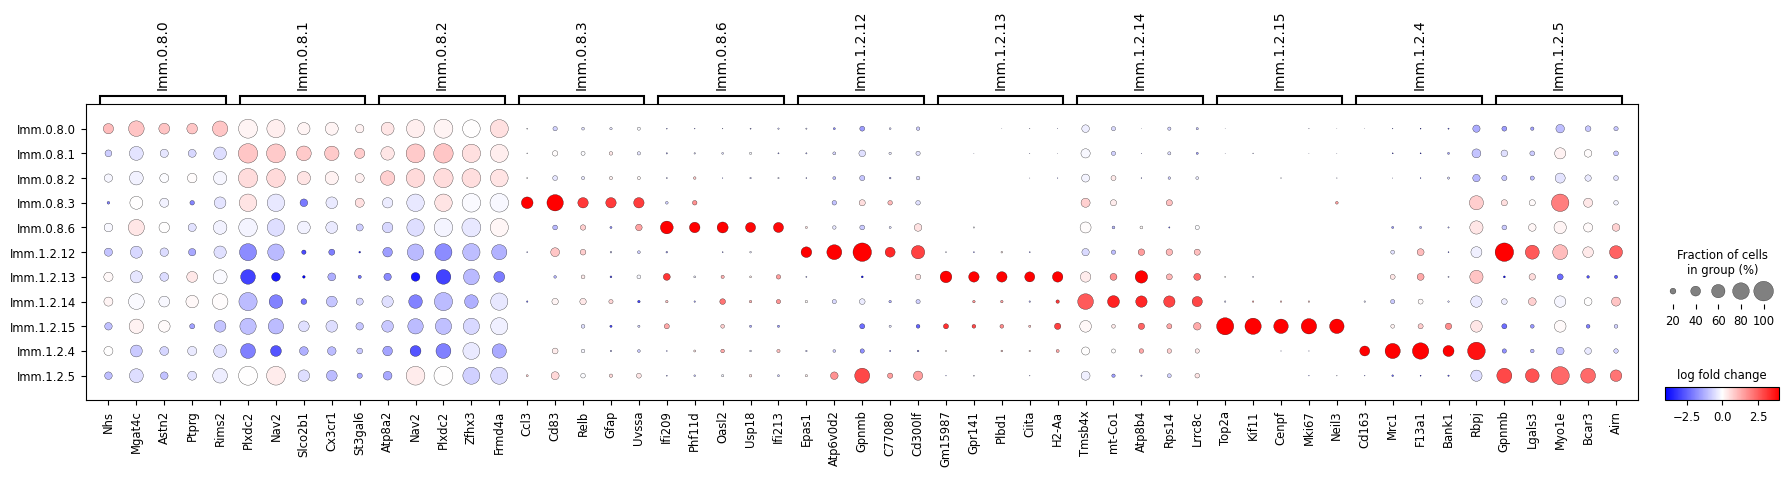
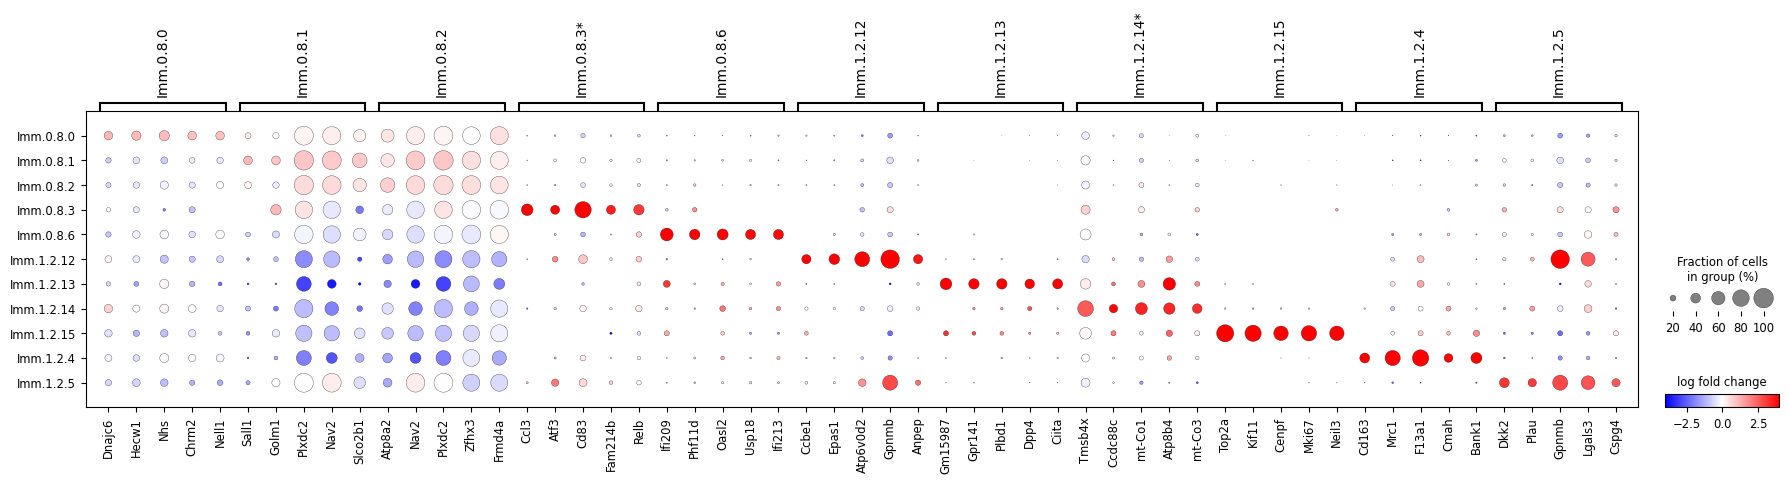
add new update to immune analysis

diff --git a/src/new_immune.py b/src/new_immune.py
@@ -78,7 +78,7 @@ def create_cluster_dfs(gene_names, logfoldchanges, pvals_adj, scores, pts, sort_
             'pts': pts_reindexed.values},
             index=gene_reindex.values
         )
-
+        #startswith() INDEX
         # Filter by 'pts' using the user-specified threshold
         mask_pts = (cluster_df['pts'] >= pts_threshold)
         filtered_df = cluster_df[mask_pts]
@@ -244,7 +244,7 @@ def top_gene_names(top_genes_cluster):
 
 
 # Step 7: Visualize the DotPlots of the DGE's
-def create_dotplot(adata, top_genes_names, output_dir="dotplots_immune"):
+def create_dotplot(adata, top_genes_names, output_dir="dotplots_immune5"):
     """
     Create and save a dotplot of the top genes per cluster.
 
@@ -307,6 +307,26 @@ def remove_NA_cat(adata: sc.AnnData):
 
     return adata2
 
+def nonsigngene(top_genes):
+    
+    return (top_genes['pvals_adj'] > 0.05 ).any()
+
+
+def addasterix(top_genes_cluster):
+    
+    updated_cluster = {}
+
+    for cluster, df in top_genes_cluster.items():
+
+        # Check if the cluster has any non-significant genes
+        if nonsigngene(df):
+            # Add an asterisk to the cluster name
+            updated_cluster[cluster + '*'] = df
+        else:
+            updated_cluster[cluster]  = df
+
+    return updated_cluster
+
 # Main execution block
 if __name__ == "__main__":
     # Load data
@@ -318,20 +338,23 @@ if __name__ == "__main__":
     gene_names, logfoldchanges, pvals_adj, scores, pts = extract_dge_data(filtered_adata)
     
     # Create cluster DataFrames
-    cluster_dfs = create_cluster_dfs(gene_names, logfoldchanges, pvals_adj, scores, pts, sort_by_logfc=True, pts_threshold=0.4)    
+    cluster_dfs = create_cluster_dfs(gene_names, logfoldchanges, pvals_adj, scores, pts, sort_by_logfc=True, pts_threshold=0.5)    
     
     # Remove NA clusters
     cluster_dfs = remove_clusters_by_suffix(cluster_dfs, "NA")
     
     # Select the top genes for each cluster
     top_genes_cluster = select_top_genes(cluster_dfs)
+
+    # Add the asterisk to cluster names with non-significant genes
+    top_genes_cluster = addasterix(top_genes_cluster)
     
     # Collect top gene names for visualization
     top_genes_names = top_gene_names(top_genes_cluster)
-    
+
     # Create dotplot of the top genes
     create_dotplot(filtered_adata, top_genes_names)
 
     # # Prints
     # print_gene_names(top_genes_names)
-    # print_clusters(top_genes_cluster)
+    print_clusters(top_genes_cluster)
